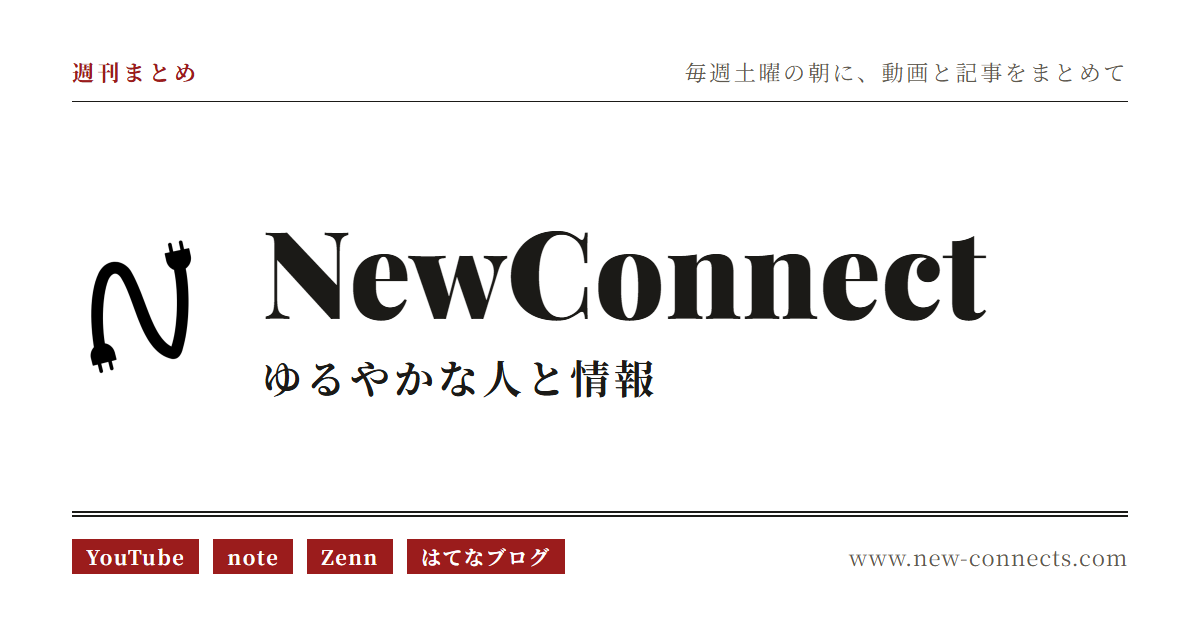
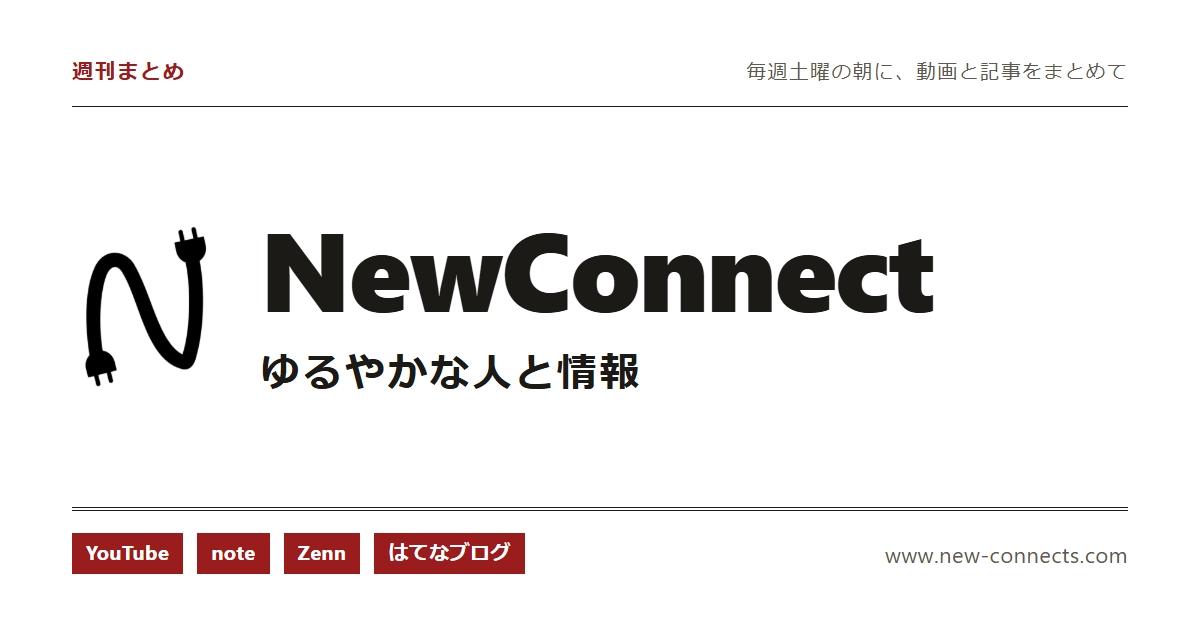
シェア画像をゴシック体で作り直し、画像のキャッシュと CSS の埋め込みで表示を速くする
- og-default.png をサイトと同じゴシック体で作り直す
- メディアと /_image を Cloudflare に 30 日キャッシュし、メディアの変更時に消す
- CSS を HTML に埋め込み、描画を止めるリクエストをなくす
- 週刊まとめの先頭画像の遅延読み込みをやめる

diff --git a/src/worker.ts b/src/worker.ts
@@ -11,6 +11,34 @@ const KEEP_PREFIXES = ["/_astro"];
 const SETUP_API = "/_emdash/api/setup";
 const ALL_PAGE_TAGS = ["posts", "pages", "bluesky", "feed_items"];
 
+// EmDash sends media with `max-age=0, must-revalidate`, because "Replace
+// original" may overwrite a file under the same key, and the Worker answers
+// every image request by reading R2 (and `/_image` resizes it again each time).
+// Cache them at the Cloudflare edge instead, tagged so that any media change in
+// the admin purges them; browsers keep EmDash's header and revalidate.
+const MEDIA_PREFIX = "/_emdash/api/media";
+const MEDIA_FILE_PREFIX = `${MEDIA_PREFIX}/file/`;
+const IMAGE_ENDPOINT = "/_image";
+const MEDIA_TAG = "media";
+const MEDIA_EDGE_CACHE = "public, max-age=2592000";
+
+function isCacheableMedia(request: Request, url: URL, response: Response): boolean {
+	return (
+		(request.method === "GET" || request.method === "HEAD") &&
+		response.status === 200 &&
+		!request.headers.has("Range") &&
+		(url.pathname.startsWith(MEDIA_FILE_PREFIX) || url.pathname === IMAGE_ENDPOINT) &&
+		(response.headers.get("Content-Type") ?? "").startsWith("image/")
+	);
+}
+
+function cacheMediaAtEdge(response: Response): Response {
+	const headers = new Headers(response.headers);
+	headers.set("Cloudflare-CDN-Cache-Control", MEDIA_EDGE_CACHE);
+	headers.set("Cache-Tag", MEDIA_TAG);
+	return new Response(response.body, { status: response.status, headers });
+}
+
 // A page opened while the database is still migrating answers 503; without
 // this the cache keeps serving that error after the database is ready.
 function keepErrorsOutOfCache(response: Response): Response {
@@ -60,6 +88,11 @@ export default {
 			if (request.method === "POST" && url.pathname.startsWith(SETUP_API) && response.ok) {
 				ctx.waitUntil(purgeTags(ALL_PAGE_TAGS).catch((error) => console.error("setup purge", error)));
 			}
+			// Upload, replace, edit or delete in the media library.
+			if (request.method !== "GET" && request.method !== "HEAD" && url.pathname.startsWith(MEDIA_PREFIX) && response.ok) {
+				ctx.waitUntil(purgeTags([MEDIA_TAG]).catch((error) => console.error("media purge", error)));
+			}
+			if (isCacheableMedia(request, url, response)) return cacheMediaAtEdge(response);
 			return keepErrorsOutOfCache(response);
 		});
 	},
